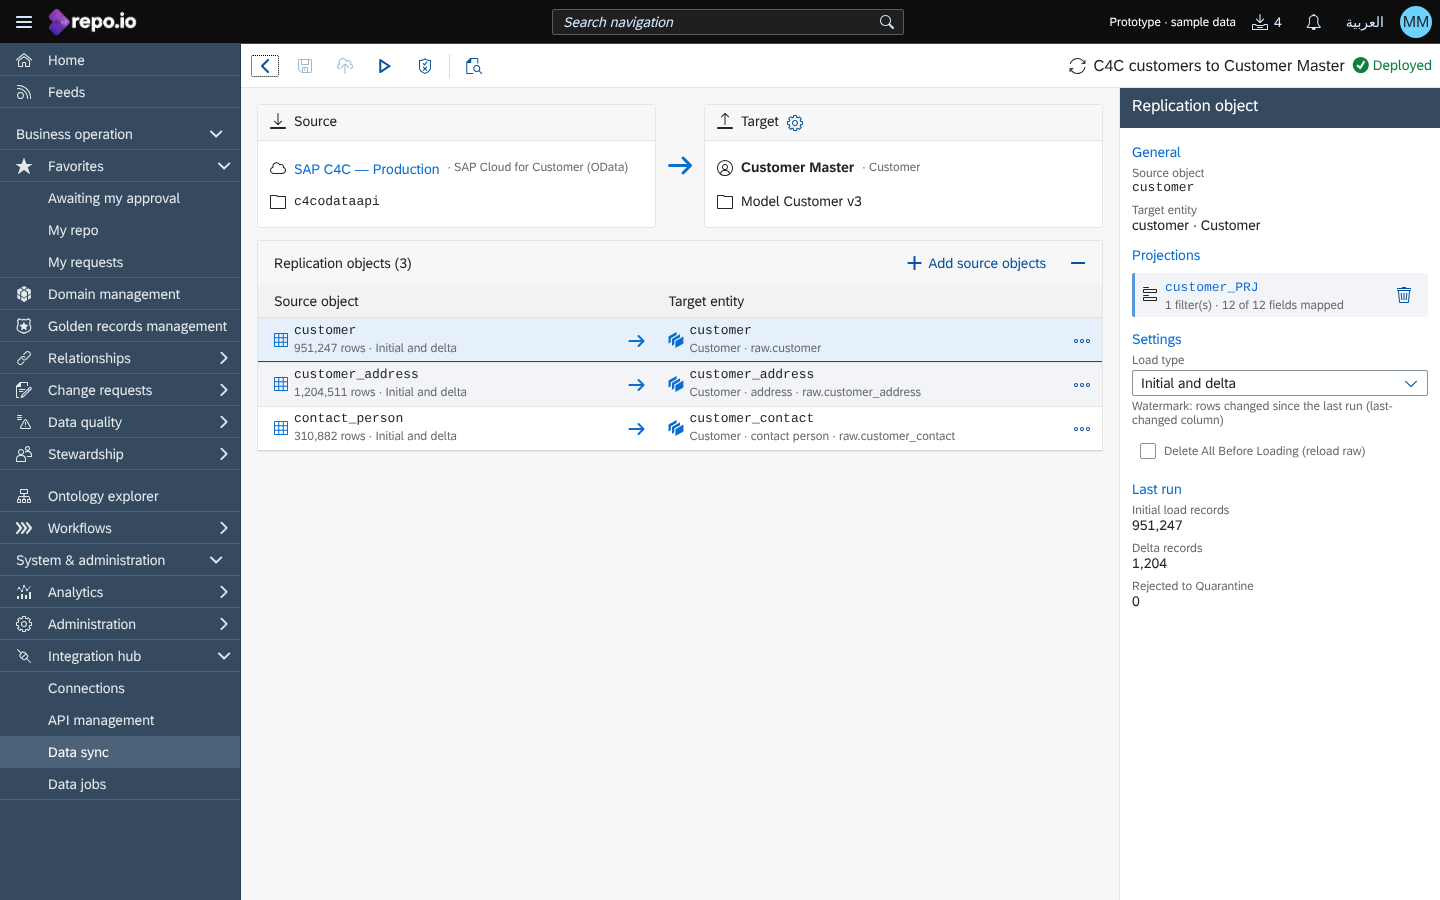
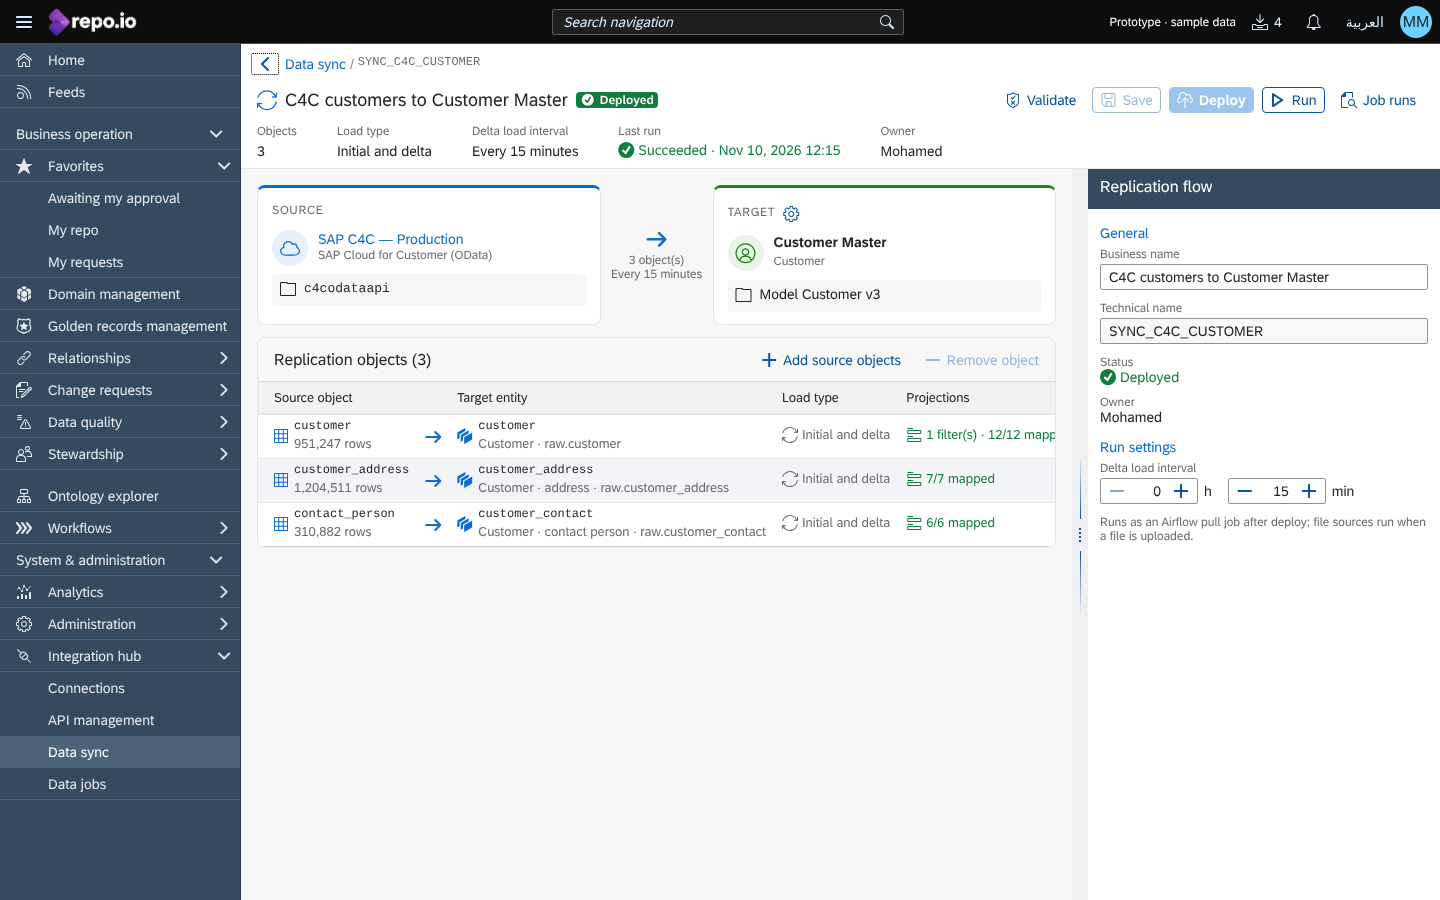
feat(repoio-ui): rebuild the replication flow editor layout
Object-page style header (breadcrumb, title + status, labelled actions, key facts),
source/target tiles with step buttons and a link summary, replication objects table
with load type, projection status and records, resizable properties panel (Splitter).

Claude-Session: https://claude.ai/code/session_014MwTwj4qVcnTAy3XtzTwBt

diff --git a/repoio-ui/design-reference/openui5-prototype/webapp/controller/DataSync.controller.js b/repoio-ui/design-reference/openui5-prototype/webapp/controller/DataSync.controller.js
@@ -2,6 +2,7 @@ sap.ui.define([
 	"repoio/proto/controller/BaseController",
 	"repoio/proto/util/sync",
 	"repoio/proto/util/people",
+	"repoio/proto/util/jobRuns",
 	"sap/ui/core/Fragment",
 	"sap/m/MessagePopover",
 	"sap/m/MessageItem",
@@ -17,7 +18,7 @@ sap.ui.define([
 	"sap/ui/layout/form/SimpleForm",
 	"sap/m/MessageToast",
 	"sap/m/MessageBox"
-], function (BaseController, S, people, Fragment, MessagePopover, MessageItem, Menu, MenuItem, Dialog, Button, Label, Input, Text, Switch, MessageStrip,
+], function (BaseController, S, people, R, Fragment, MessagePopover, MessageItem, Menu, MenuItem, Dialog, Button, Label, Input, Text, Switch, MessageStrip,
 	SimpleForm, MessageToast, MessageBox) {
 	"use strict";
 
@@ -82,13 +83,26 @@ sap.ui.define([
 			vm.setProperty("/sf/emptyText", this.text(!f.conn ? "ds.empty.conn" : !f.container ? "ds.empty.container" : !f.repo ? "ds.empty.target" : "ds.noObjects"));
 			vm.setProperty("/sf/objTitle", this.text("ds.objTitle", [f.objects.length]));
 			vm.setProperty("/sf/objects", f.objects.map(function (o) {
-				var fields = ents[o.entity] || [], okReq = fields.filter(function (x) { return x.req; }).every(function (x) { return o.mapping[x.name]; });
+				var fields = ents[o.entity] || [], missing = fields.filter(function (x) { return x.req && !o.mapping[x.name]; }).length,
+					nf = (o.filters || []).length;
 				return Object.assign({}, o, {
-					srcSub: (o.rows ? that.text("ds.rows", [that.fmt.num(o.rows)]) + " · " : "") + that.text(o.load === "delta" ? "ds.load.delta" : "ds.load.initial") + (o.truncate ? " · " + that.text("ds.truncateShort") : ""),
-					tgtSub: that.text("ds.ent." + o.entity) + " · raw." + o.entity,
-					mapText: that.text("ds.mapped", [Object.keys(o.mapping).length, fields.length]), mapState: okReq ? "Success" : "Error"
+					rowsText: o.rows ? that.text("ds.rows", [that.fmt.num(o.rows)]) : "",
+					entityText: that.text("ds.ent." + o.entity) + " · raw." + o.entity,
+					loadText: that.text(o.load === "delta" ? "ds.load.delta" : "ds.load.initial"), loadIcon: o.load === "delta" ? "sap-icon://synchronize" : "sap-icon://download",
+					pjText: missing ? that.text("ds.pjMissing", [missing]) : (o.projection ? (nf ? that.text("ds.prjFilters", [nf]) + " · " : "") + that.text("ds.mappedShort", [Object.keys(o.mapping).length, fields.length]) : that.text("ds.pjOff")),
+					pjState: missing ? "Error" : o.projection ? "Success" : "None",
+					pjIcon: missing ? "sap-icon://error" : o.projection ? "sap-icon://filter-fields" : "sap-icon://combine",
+					recText: o.last && o.last.initial ? that.text("ds.recs", [that.fmt.num(o.last.initial), that.fmt.num(o.last.delta || 0)]) : "—"
 				});
 			}));
+			var hasD = f.objects.some(function (o) { return o.load === "delta"; }), la = S.LAST[f.lastState];
+			vm.setProperty("/sf/fact", {
+				objects: String(f.objects.length),
+				load: f.objects.length ? S.load(this, f) : "—",
+				interval: conn ? S.interval(this, f) : "—",
+				last: la ? this.text("jr.st." + f.lastState) + " · " + R.date(f.lastRun, this.lang()).replace(/:\d\d$/, "") : this.text("ds.never"), lastState: la ? la[0] : "None", lastIcon: la ? la[1] : ""
+			});
+			vm.setProperty("/sf/linkText", f.objects.length ? this.text("ds.linkText", [f.objects.length]) + (hasD ? "\n" + S.interval(this, f) : "") : "");
 			this._objProps();
 		},
 		_objProps: function () {
@@ -250,6 +264,10 @@ sap.ui.define([
 			this.byId("sfObjects").removeSelections(true);
 			this.viewModel().setProperty("/sf/selIdx", -1);
 			this._dirty();
+		},
+		onRowProjection: function (oEvent) {
+			this._select(this.byId("sfObjects").indexOfItem(oEvent.getSource().getParent()));
+			this.onProjection();
 		},
 		onObjSelect: function (oEvent) {
 			this.viewModel().setProperty("/sf/selIdx", this.byId("sfObjects").indexOfItem(oEvent.getParameter("listItem")));

diff --git a/repoio-ui/design-reference/openui5-prototype/webapp/css/style.css b/repoio-ui/design-reference/openui5-prototype/webapp/css/style.css
@@ -742,3 +742,29 @@ html[dir="rtl"] .repoioJdArrow { transform: scaleX(-1); }
 .repoioPjCol { width: 100%; gap: 0.25rem; padding-inline-end: 0.5rem; min-width: 0; }
 .repoioPjColLbl { margin-inline-start: auto; max-width: 6.5rem; flex: 0 1 auto; overflow: hidden; text-overflow: ellipsis; }
 .repoioPjCol .repoioMono { flex: 0 1 auto; min-width: 0; overflow: hidden; text-overflow: ellipsis; }
+/* Replication flow editor v3 */
+.repoioRf { background: #f7f7f7; }
+.repoioRfHeader { flex: none; background: #fff; border-bottom: 1px solid #e5e5e5; padding: 0.25rem 1rem 0.5rem; }
+.repoioRfCrumbs { gap: 0.25rem; margin-inline-start: -0.5rem; }
+.repoioRfSep.sapMText { color: #89919a; }
+.repoioRfTitleBar.sapMTB { height: 2.5rem; padding: 0; }
+.repoioRfTitleIcon { color: #0a6ed1; }
+.repoioRfFacts { display: flex; gap: 2.5rem; padding-top: 0.25rem; }
+.repoioRfFact .sapMLabel { font-size: 0.75rem; color: #6a6d70; }
+.repoioRfSplit { flex: 1 1 0; min-height: 0; }
+.repoioRfCanvas { background: #f7f7f7; }
+.repoioRfEnds { display: grid; grid-template-columns: minmax(0, 1fr) 7rem minmax(0, 1fr); gap: 0; padding: 1rem 1rem 0.75rem; }
+.repoioRfTile { background: #fff; border: 1px solid #e5e5e5; border-radius: 0.5rem; padding: 0.625rem 0.875rem 0.75rem; min-width: 0; border-top: 3px solid #0a6ed1; }
+.repoioRfTileTgt { border-top-color: #188918; }
+.repoioRfTileHead { min-height: 1.75rem; }
+.repoioRfTileLbl.sapMLabel { font-size: 0.75rem; text-transform: uppercase; letter-spacing: 0.05em; color: #6a6d70; }
+.repoioRfTileMain { gap: 0.625rem; margin-top: 0.25rem; }
+.repoioRfTileText { min-width: 0; }
+.repoioRfTileSub { margin-top: 0.5rem; padding: 0.25rem 0.5rem; background: #f5f6f7; border-radius: 0.25rem; min-height: 2rem; }
+.repoioRfBadge { width: 2.25rem; height: 2.25rem; line-height: 2.25rem; border-radius: 50%; background: #e5f0fa; color: #0a6ed1; flex: none; text-align: center; }
+.repoioRfBadgeTgt { background: #e7f4e7; color: #188918; }
+.repoioRfLink { padding-inline: 0.5rem; }
+.repoioRfLink .sapMText { white-space: pre-line; margin-top: 0.25rem; }
+.repoioRfTable { margin: 0 1rem 1rem; width: calc(100% - 2rem) !important; border: 1px solid #e5e5e5; border-radius: 0.5rem; overflow: hidden; }
+.repoioRfProps { border-inline-start: none; }
+.repoioRfStepBtn.sapMBtn { margin-top: 0.75rem; }
